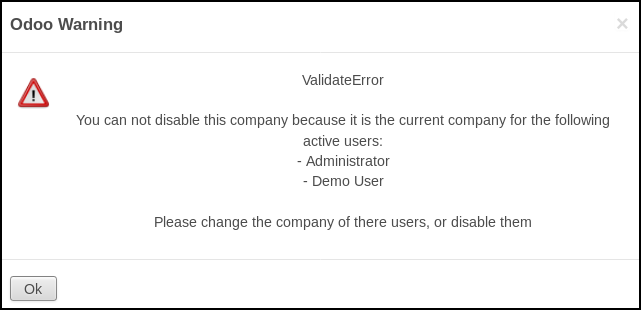
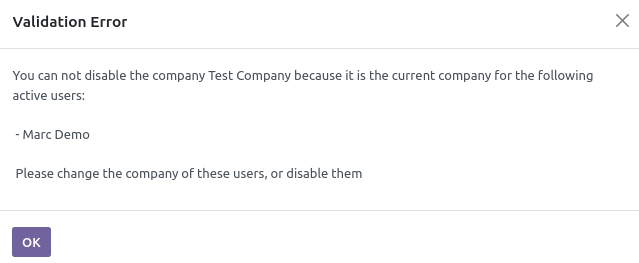
[PORT] res_company_active from 12.0 to 16.0

Changed region(s): [[0.0, 0.0, 1.0, 1.0]]

diff --git a/res_company_active/models/res_company.py b/res_company_active/models/res_company.py
@@ -2,14 +2,12 @@
 # @author: Sylvain LE GAL (https://twitter.com/legalsylvain)
 # License AGPL-3.0 or later (http://www.gnu.org/licenses/agpl.html).
 
-from odoo import _, api, fields, models
+from odoo import _, api, models
 from odoo.exceptions import ValidationError
 
 
 class ResCompany(models.Model):
     _inherit = "res.company"
-
-    active = fields.Boolean(string="Active", default=True)
 
     @api.constrains("active")
     def _check_active(self):
@@ -24,11 +22,12 @@ class ResCompany(models.Model):
                 if len(users):
                     raise ValidationError(
                         _(
-                            "You can not disable the company %s because it is the"
+                            "You can not disable the company %(company_name)s because it is the"
                             " current company for the following active users:\n\n"
-                            " - %s\n\n"
+                            " - %(user_names)s\n\n"
                             " Please change the company of these users, or disable"
-                            " them"
+                            " them",
+                            company_name=company.name,
+                            user_names="\n - ".join(users.mapped("name")),
                         )
-                        % (company.name, "\n - ".join(users.mapped("name")))
                     )

diff --git a/res_company_active/__manifest__.py b/res_company_active/__manifest__.py
@@ -5,9 +5,10 @@
 {
     "name": "Company Active",
     "summary": "Add the 'active' feature on company model",
-    "version": "12.0.1.0.0",
+    "version": "16.0.1.0.0",
     "category": "Tools",
     "author": "GRAP, Odoo Community Association (OCA)",
+    "maintainers": ["legalsylvain"],
     "website": "https://github.com/OCA/multi-company",
     "license": "AGPL-3",
     "depends": [

diff --git a/res_company_active/readme/DESCRIPTION.rst b/res_company_active/readme/DESCRIPTION.rst
@@ -1,4 +1,4 @@
-This module adds ``active`` fields on company model.
+This module adds the possibility to archive companies by UI via the common "Action > Archive" button.
 
 .. figure:: ../static/description/res_company_form.png
 
